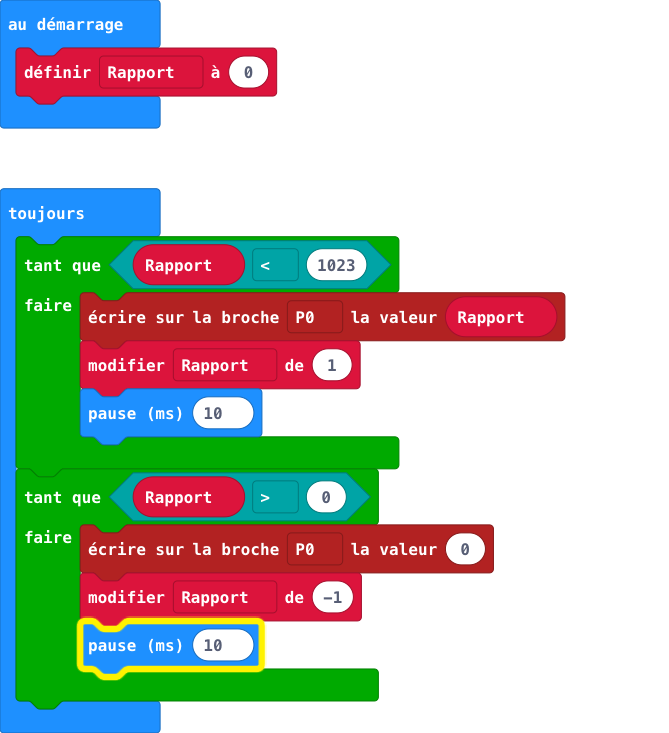
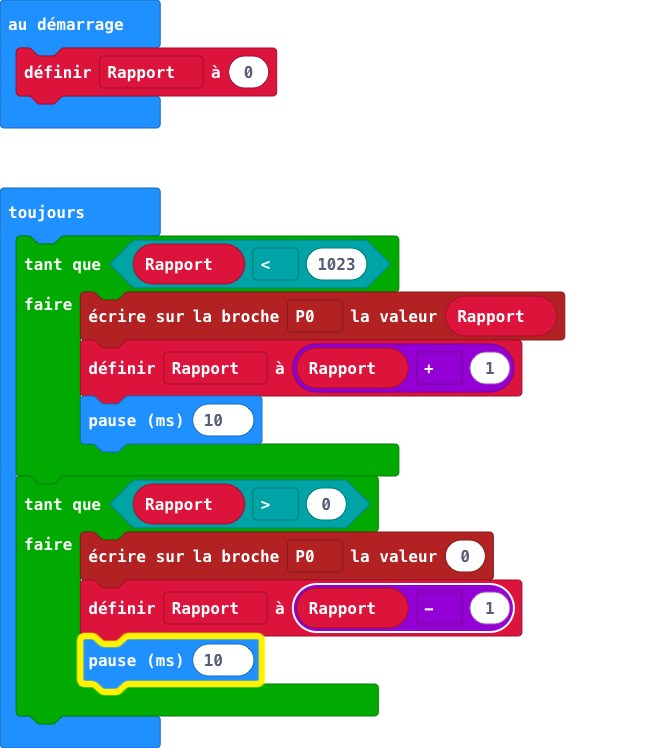
Mise à jour main.blocks, main.ts

diff --git a/main.ts b/main.ts
@@ -2,12 +2,12 @@ let Rapport = 0
 basic.forever(function () {
     while (Rapport < 1023) {
         pins.digitalWritePin(DigitalPin.P0, Rapport)
-        Rapport += 1
+        Rapport = Rapport + 1
         basic.pause(10)
     }
     while (Rapport > 0) {
         pins.digitalWritePin(DigitalPin.P0, 0)
-        Rapport += -1
+        Rapport = Rapport - 1
         basic.pause(10)
     }
 })
